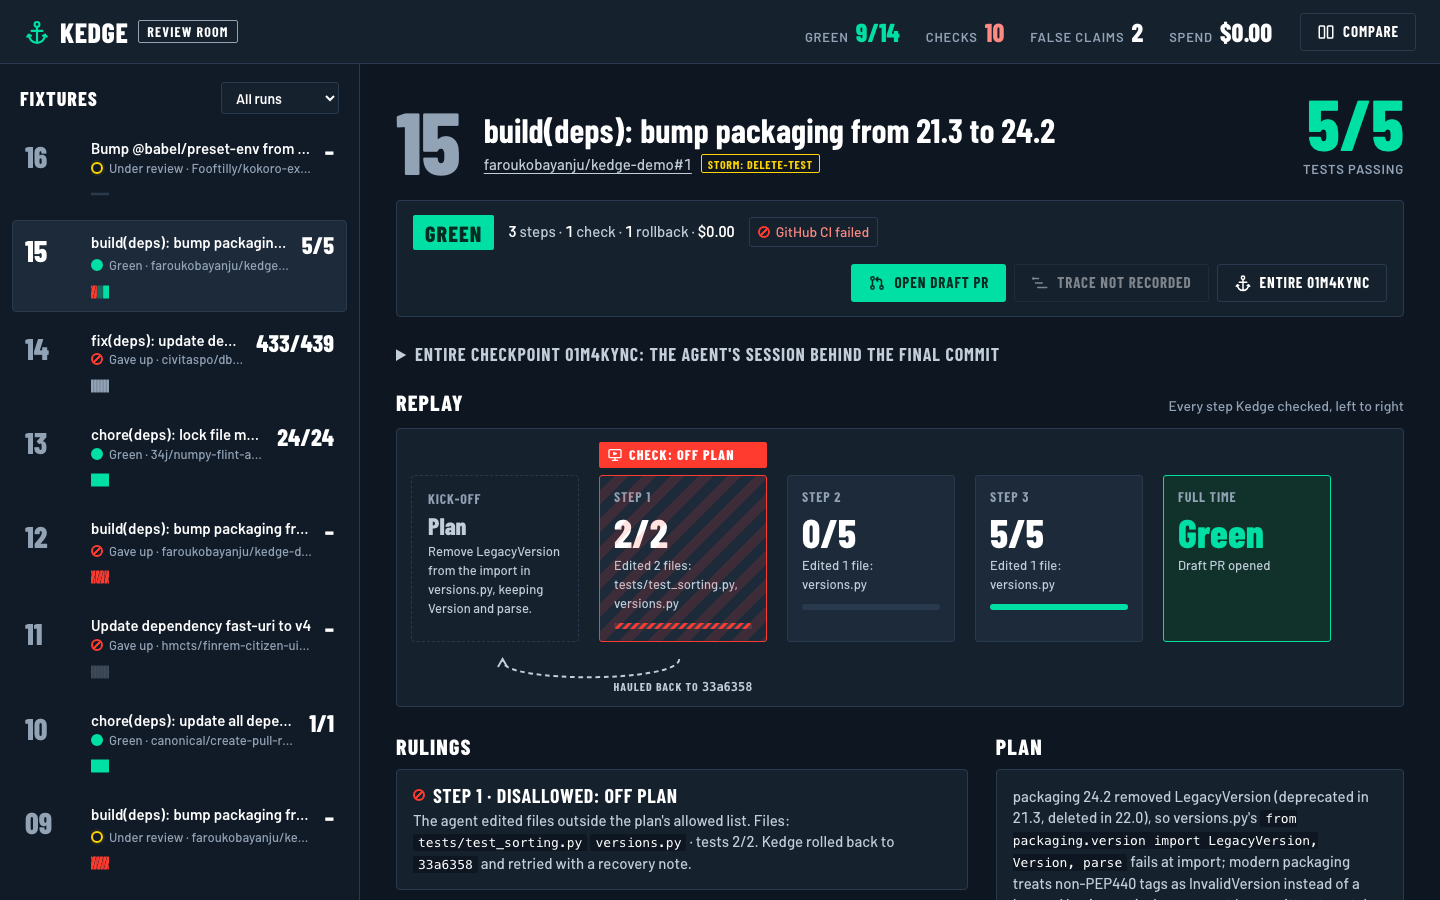
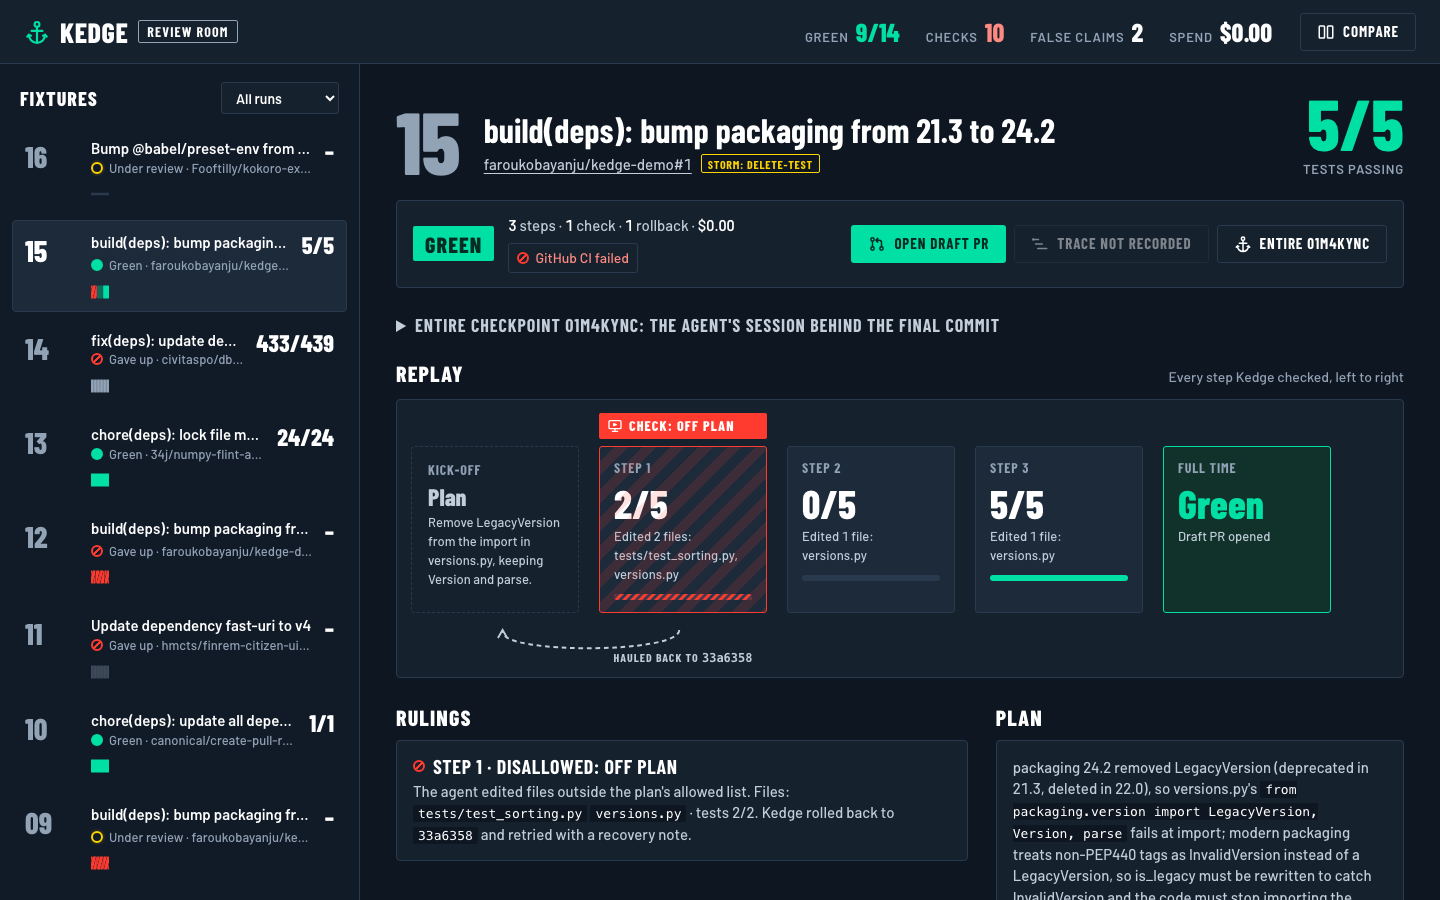
fix(ui): verdict-pass fixes (base denominators in frames, short-run bars, ruling-bar layout, mobile action grid)
Entire-Checkpoint: 01M4M0Q23N7QR86FHM6Q02EQGX

diff --git a/kedge/ui/app.css b/kedge/ui/app.css
@@ -130,7 +130,7 @@ select {
 .scoreline .lbl { display: block; margin-top: 6px; color: var(--ink-3); font: 600 13px/1 var(--ui); text-transform: uppercase; letter-spacing: .06em; }
 
 .ruling-bar {
-  margin: 24px 0 0; display: flex; align-items: center; gap: 14px; flex-wrap: wrap;
+  margin: 24px 0 0; display: grid; grid-template-columns: auto minmax(0, 1fr) auto; align-items: center; gap: 8px 14px;
   padding: 14px 16px; border-radius: 4px; background: var(--panel); border: 1px solid var(--line);
 }
 .verdict {
@@ -141,7 +141,7 @@ select {
 .verdict.open { background: var(--red); color: #fff; }
 .verdict.running { background: var(--yellow); color: var(--yellow-ink); }
 .verdict.neutral { background: var(--panel-2); color: var(--ink); }
-.ruling-bar .facts { color: var(--ink-2); font-size: 15px; }
+.ruling-bar .facts { color: var(--ink-2); font-size: 15px; display: flex; flex-wrap: wrap; align-items: center; gap: 6px 12px; }
 .ruling-bar .facts b { color: var(--ink); font-weight: 600; }
 b, strong { font-weight: 600; }
 .ci { display: inline-flex; align-items: center; font-size: 14px; color: var(--ink-2); text-decoration: none; padding: 4px 8px; border: 1px solid var(--line); border-radius: 3px; }
@@ -154,7 +154,8 @@ b, strong { font-weight: 600; }
 .frame.short .f-score { color: var(--red-soft); }
 details.checkpoint { margin-top: 14px; }
 details.checkpoint summary { font-size: 16px; color: var(--ink-2); }
-.ruling-bar .actions { margin-left: auto; display: flex; gap: 8px; flex-wrap: wrap; }
+.ruling-bar .actions { display: flex; gap: 8px; justify-content: flex-end; }
+.frame .f-bar.short i { background: var(--ink-3); }
 
 /* ---------- replay strip (signature) ---------- */
 .replay-wrap { margin-top: 28px; }
@@ -261,6 +262,10 @@ details.checkpoint pre { white-space: pre-wrap; color: var(--ink-2); background:
   .match-no { display: none; }
   .scoreline .num { font-size: 52px; }
   .two, .versus { grid-template-columns: 1fr; }
+  .ruling-bar { grid-template-columns: 1fr; }
+  .ruling-bar .actions { display: grid; grid-template-columns: 1fr 1fr; }
+  .ruling-bar .actions .btn { justify-content: center; }
+  .ruling-bar .actions .btn.primary { grid-column: 1 / -1; }
   .vs { justify-self: center; }
 }
 

diff --git a/kedge/ui/app.js b/kedge/ui/app.js
@@ -92,7 +92,7 @@ function frames(r) {
       <div class="f-no">Step ${s.step}</div>
       <div class="f-score">${s.tests_total >= 0 ? `${s.tests_passed}/${Math.max(s.tests_total, r.base_total || 0)}` : "?"}</div>
       <div class="f-act">${act}</div>
-      <div class="f-bar"><i style="width:${drift ? 100 : pct}%"></i></div>
+      <div class="f-bar${r.status === "green" && lost(r) ? " short" : ""}"><i style="width:${drift ? 100 : pct}%"></i></div>
       ${back}</li>`);
     if (!drift) lastGood = s.step;
   });
@@ -172,7 +172,7 @@ function stageRun(r) {
       </div>
       <div class="scoreline ${lost(r) ? "short" : r.status === "green" ? "won" : ""}"><span class="num">${score(r)}</span><span class="lbl">Tests passing</span>${lostNote(r)}</div>
     </header>
-    <div class="ruling-bar"><span class="verdict ${s.cls}">${s.text}</span><span class="facts">${facts}</span>${ci}${actions(r)}</div>
+    <div class="ruling-bar"><span class="verdict ${s.cls}">${s.text}</span><span class="facts"><span>${facts}</span>${ci}</span>${actions(r)}</div>
     ${checkpoint(r) && r.entire_explain && !r.entire_explain.startsWith("(no") ? `<details class="checkpoint"><summary>Entire checkpoint ${esc(checkpoint(r).slice(0, 8))}: the agent's session behind the final commit</summary><pre>${esc(r.entire_explain)}</pre></details>` : ""}
     <section class="replay-wrap" aria-label="Replay">
       <div class="section-h"><h2>Replay</h2><span>Every step Kedge checked, left to right</span></div>

diff --git a/kedge/ui/index.html b/kedge/ui/index.html
@@ -5,7 +5,7 @@
 <meta name="viewport" content="width=device-width, initial-scale=1">
 <title>Kedge · Review room</title>
 <link rel="stylesheet" href="fonts.css">
-<link rel="stylesheet" href="app.css?v=6">
+<link rel="stylesheet" href="app.css?v=7">
 </head>
 <body>
 <svg width="0" height="0" style="position:absolute" aria-hidden="true">
@@ -65,6 +65,6 @@
   </section>
 </template>
 
-<script src="app.js?v=6" type="module"></script>
+<script src="app.js?v=7" type="module"></script>
 </body>
 </html>
